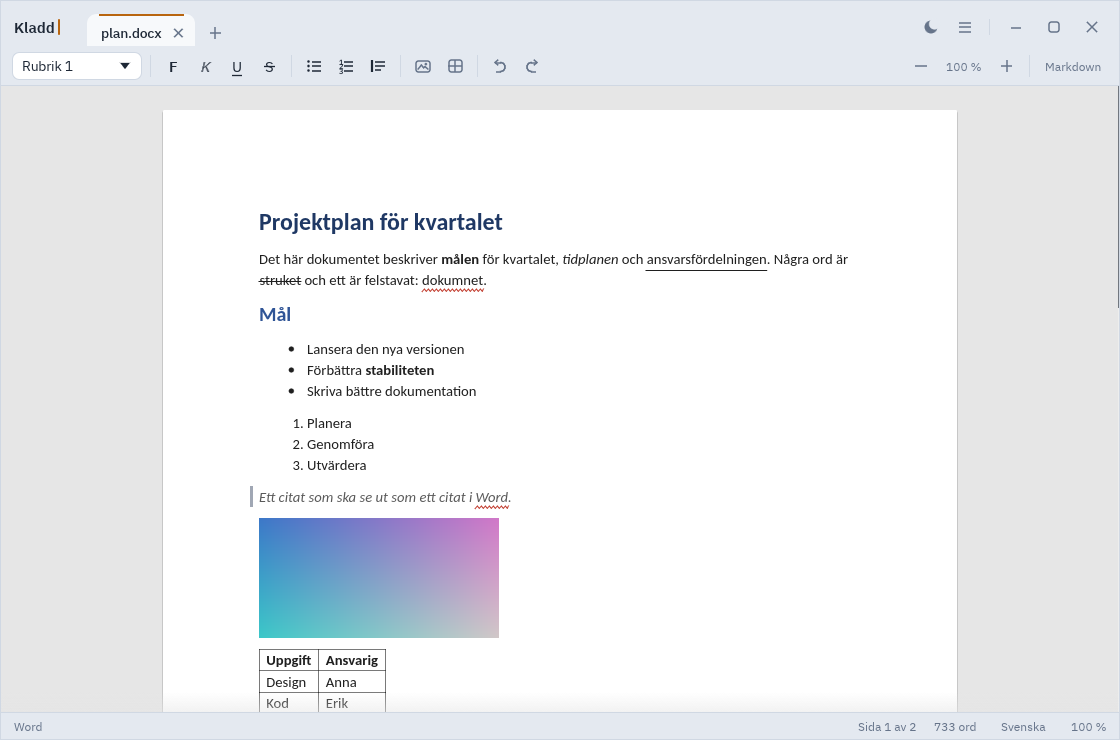
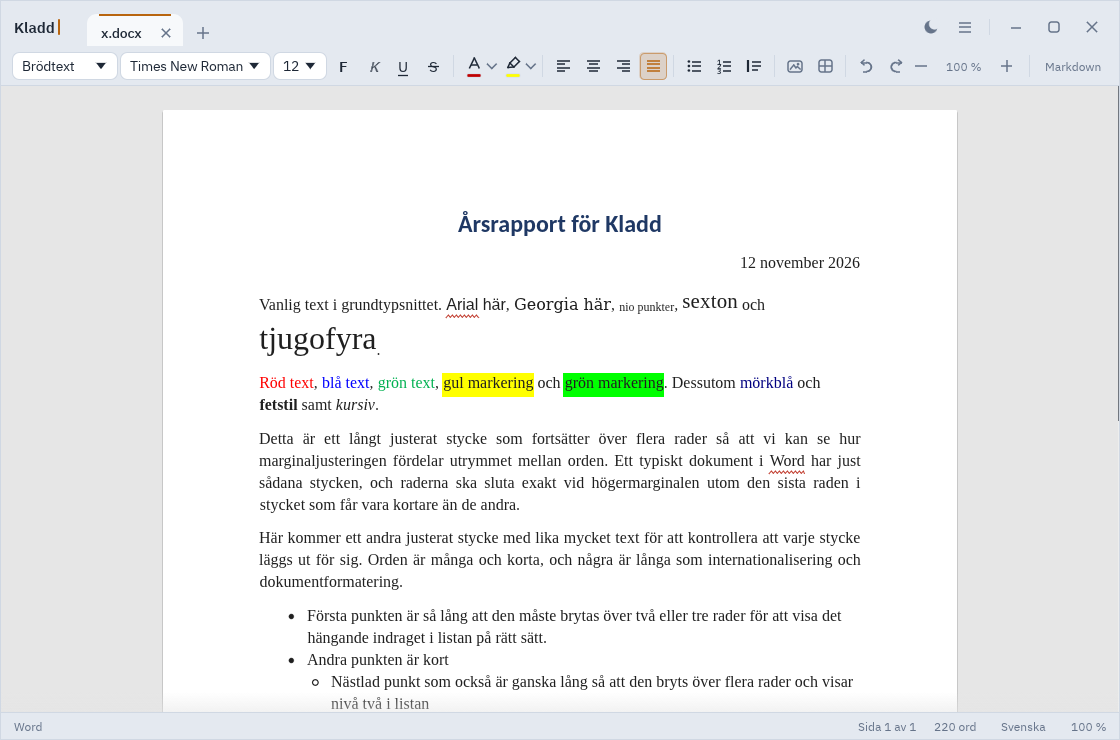
Dokumentläge: Ctrl+L/E/R/J och Ctrl+B/I/U tar inte längre Ctrl+Shift-kortkommandon; ny skärmbild
Claude-Session: https://claude.ai/code/session_01Sk68kf3XSkFtJztt6gkn15

diff --git a/src/word/view.rs b/src/word/view.rs
@@ -325,7 +325,12 @@ impl KladdApp {
                 return;
             }
         }
-        let hit = |m: Modifiers, k: Key| ctx.input_mut(|i| i.consume_shortcut(&KeyboardShortcut::new(m, k)));
+        // egui:s `consume_shortcut` bryr sig inte om Shift. Utan kontrollen skulle Ctrl+L
+        // (vänsterjustera) ta Ctrl+Shift+L (byt tema) och Ctrl+I ta Ctrl+Shift+I (infoga bild).
+        let shift = ctx.input(|i| i.modifiers.shift);
+        let hit = |m: Modifiers, k: Key| {
+            (m.shift || !shift) && ctx.input_mut(|i| i.consume_shortcut(&KeyboardShortcut::new(m, k)))
+        };
         let ctrl = Modifiers::CTRL;
         let ctrl_alt = Modifiers::CTRL | Modifiers::ALT;
         if hit(ctrl, Key::B) {
